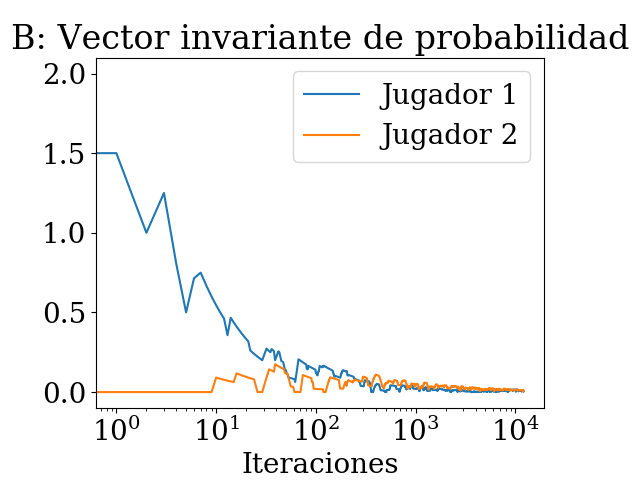
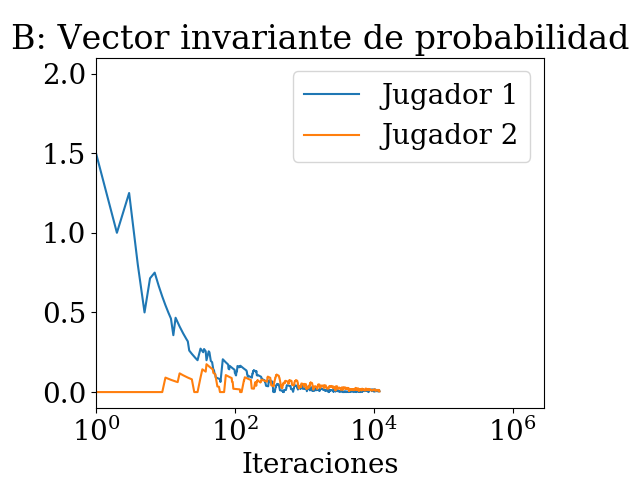
Misma escala en las graficas

diff --git a/src/graphics.py b/src/graphics.py
@@ -1,11 +1,13 @@
 import matplotlib.pylab as plt
 import sys
+
 MAX_VAL = 2e7
 
 BIGGER_SIZE = 20
 FONT_SIZE = 15
 SMALL_SIZE = 12
-def make_plot(path_input, path_graph, proc, name):
+
+def make_plot(path_input, path_graph, proc, name, x_val):
     file = open(path_input)
     i = 0
     regret1 = []
@@ -17,10 +19,16 @@ def make_plot(path_input, path_graph, proc, name):
         regret1.append(float(line.split()[0]))
         regret2.append(float(line.split()[1]))
         i = i+1
+
     file.close()
+
+    if x_val == -1:
+        x_val = i
+ 
     plt.rc('font', size=BIGGER_SIZE, family='serif')
     plt.figure()
     plt.title(proc + ': ' + name)
+    plt.xlim(1, x_val)
     plt.xscale('log')
     plt.plot(regret1, label='Jugador 1')
     plt.plot(regret2, label='Jugador 2')
@@ -30,6 +38,8 @@ def make_plot(path_input, path_graph, proc, name):
     plt.legend()
     plt.subplots_adjust(bottom=0.15, left=0.15, right=0.85)
     plt.savefig(path_graph)
+
+    return x_val
 
 if __name__ == "__main__":
     name = sys.argv[1]
@@ -44,11 +54,11 @@ if __name__ == "__main__":
     names = [   'Regret condicional',
                 'Vector invariante de probabilidad',
                 'Regret incondicional']
+
+    x_val = -1
     for i in range(3):
-        if(name == "kuhn" and i < 2):
-            continue
         path_input_list[pos_input] = procs[i]
         path_graph_list[pos_graph] = procs[i]
         path_input = ''.join(path_input_list)
         path_graph = ''.join(path_graph_list)
-        make_plot(path_input, path_graph, procs[i], names[i])
+        x_val = make_plot(path_input, path_graph, procs[i], names[i], x_val)
